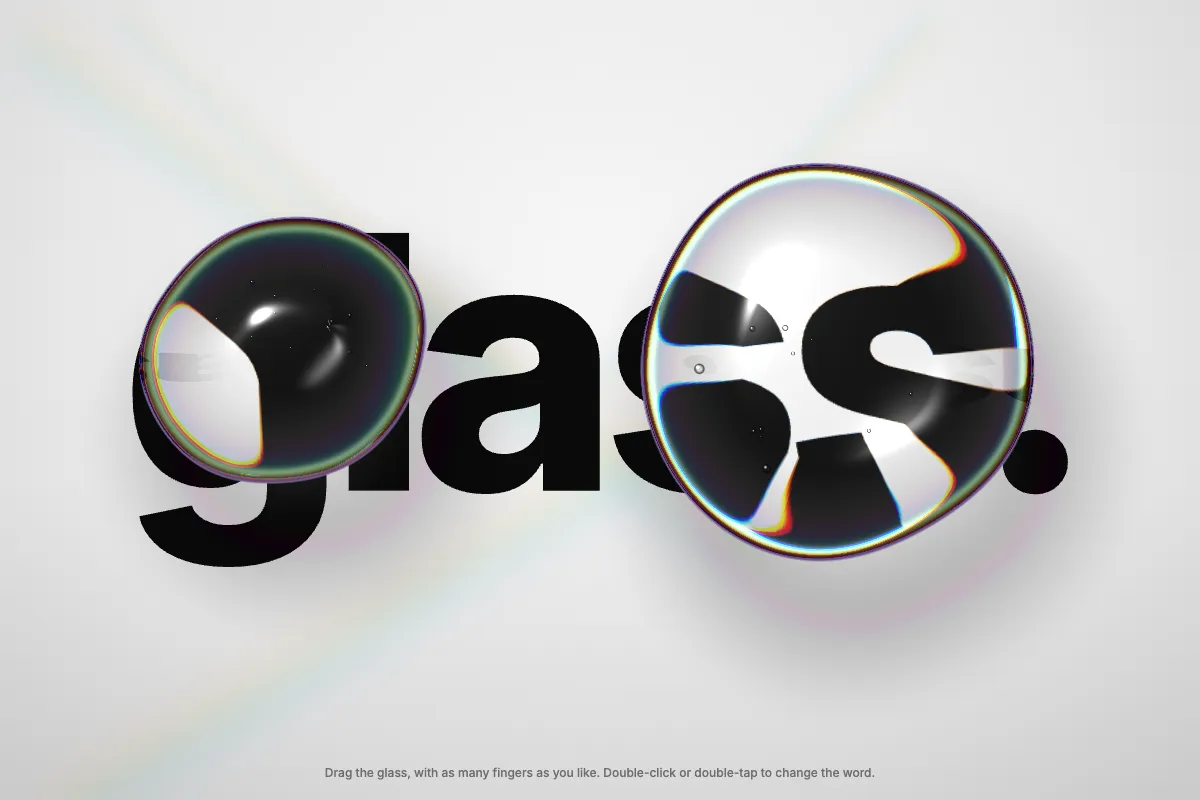
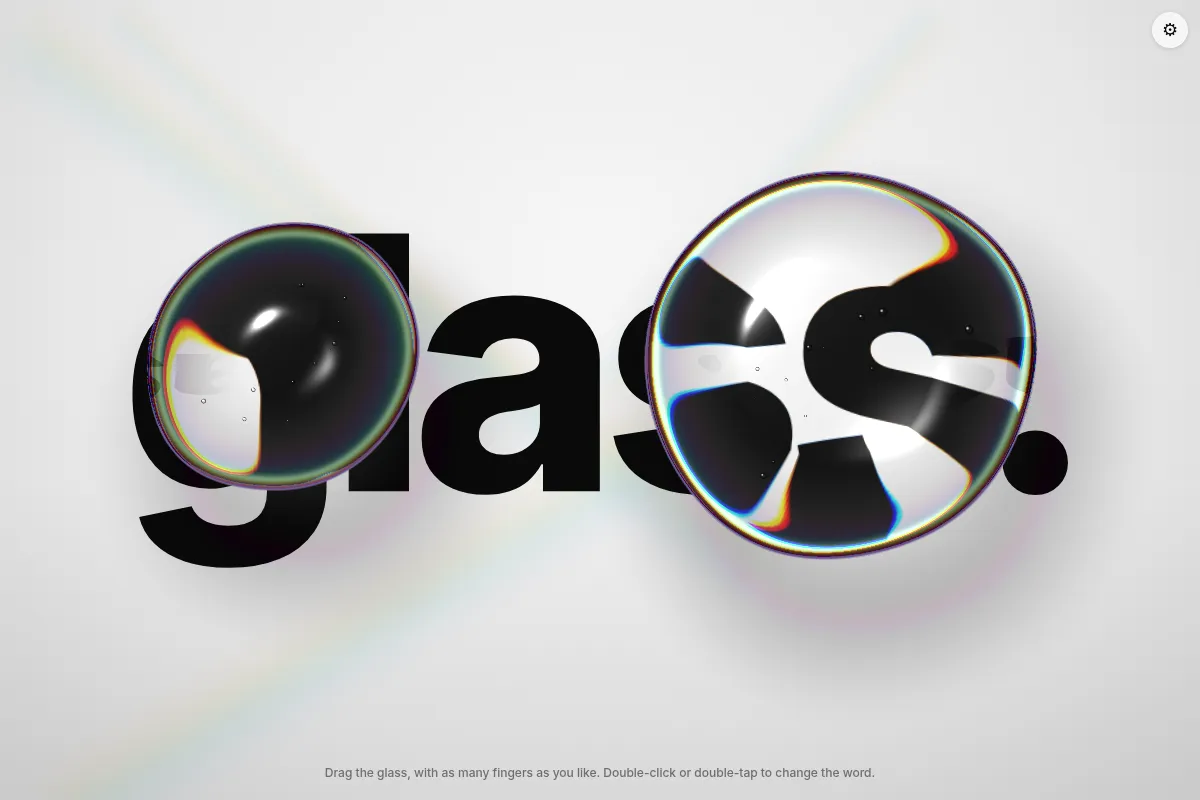
deploy: Jermolene-blog/blog@0623bb23b49f3dcc2e37793bc1b5b666c8a5a862

diff --git a/toys/blobbles/index.html b/toys/blobbles/index.html
@@ -25,6 +25,19 @@
     text-align:center; display:none;
   }
   #word::selection { background:rgba(0,120,255,0.18); color:transparent; }
+  #hud { position:fixed; top:calc(12px + env(safe-area-inset-top, 0px)); right:calc(12px + env(safe-area-inset-right, 0px));
+    font:500 12px/1.4 Inter, "Helvetica Neue", Arial, sans-serif; color:var(--ink); }
+  #hud-toggle { display:block; margin-left:auto; width:36px; height:36px; padding:0; border:0; border-radius:50%;
+    background:rgba(255,255,255,0.7); color:var(--ink); font-size:18px; line-height:36px; cursor:pointer;
+    box-shadow:0 1px 4px rgba(0,0,0,0.15); -webkit-backdrop-filter:blur(8px); backdrop-filter:blur(8px); }
+  #hud-panel { display:none; margin-top:8px; padding:12px 14px; width:220px; border-radius:12px;
+    background:rgba(255,255,255,0.8); box-shadow:0 2px 12px rgba(0,0,0,0.15); -webkit-backdrop-filter:blur(8px); backdrop-filter:blur(8px); }
+  #hud.open #hud-panel { display:block; }
+  #hud label { display:block; margin-bottom:10px; }
+  #hud label span { display:flex; justify-content:space-between; }
+  #hud output { color:var(--hint); font-variant-numeric:tabular-nums; }
+  #hud input[type=range] { width:100%; margin:4px 0 0; accent-color:var(--ink); }
+  #hud-reset { font:inherit; padding:4px 10px; border:1px solid rgba(0,0,0,0.2); border-radius:6px; background:transparent; color:var(--ink); cursor:pointer; }
   #err { position:fixed; inset:0; display:none; place-items:center; font:500 15px Inter, Arial, sans-serif; color:var(--ink); padding:24px; text-align:center; }
 </style>
 </head>
@@ -32,6 +45,10 @@
 <canvas id="c"></canvas>
 <input id="word" type="text" maxlength="60" autocomplete="off" autocorrect="off" autocapitalize="off" spellcheck="false" enterkeyhint="done" aria-label="Word to set in the background">
 <div id="hint">Drag the glass, with as many fingers as you like. Double-click or double-tap to change the word.</div>
+<div id="hud">
+  <button id="hud-toggle" type="button" aria-expanded="false" aria-controls="hud-panel" title="Settings">⚙</button>
+  <div id="hud-panel"></div>
+</div>
 <div id="err">This effect needs WebGL, which isn't available in this browser.</div>
 <script>
 (() => {
@@ -114,20 +131,28 @@ uniform sampler2D uTex;
 uniform vec2 uRes;
 uniform float uS, uT;
 uniform vec4 uB[5];
+uniform float uSp;
+uniform vec2 uQ[5]; // how far each blob is pressed into a side (x) or top/bottom (y) edge
 
 float smin(float a, float b, float k){ float h = clamp(.5 + .5*(b-a)/k, 0., 1.); return mix(b, a, h) - k*h*(1.-h); }
+
+// a blob pressed against an edge spreads out along it
+vec2 spread(vec2 q){ return vec2(1. + uSp*q.y, 1. + uSp*q.x); }
 
 float sdf(vec2 p){
   float d = 1e5;
   for (int i = 0; i < 5; i++){
     vec4 b = uB[i];
     if (b.z <= 0.) continue;
-    vec2 q = p - b.xy;
+    vec2 st = spread(uQ[i]);
+    vec2 q = (p - b.xy)/st;
     float a = atan(q.y, q.x), fi = float(i);
     float w = b.z*(0.016*sin(a*3. + uT*1.6 + fi*2.1) + 0.010*sin(a*5. - uT*2.2 + fi*1.3));
-    d = smin(d, length(q) - b.z - w, uS*0.10);
+    d = smin(d, (length(q) - b.z - w)*min(st.x, st.y), uS*0.10);
   }
-  return d;
+  // and is flattened where it meets the edge
+  float edge = -min(min(p.x, uRes.x - p.x), min(p.y, uRes.y - p.y));
+  return -smin(-d, -edge, uS*0.02);
 }
 
 float dome(vec2 p){
@@ -135,7 +160,7 @@ float dome(vec2 p){
   for (int i = 0; i < 5; i++){
     vec4 b = uB[i];
     if (b.z <= 0.) continue;
-    vec2 q = p - b.xy;
+    vec2 q = (p - b.xy)/spread(uQ[i]);
     f += exp(-dot(q,q)/(b.z*b.z*0.7));
   }
   return 1. - exp(-1.6*f);
@@ -210,12 +235,21 @@ void main(){
     // trapped air bubbles
     for (int i = 0; i < 5; i++){
       vec4 b = uB[i];
-      if (b.z <= 0. || length(p - b.xy) > b.z) continue;
+      if (b.z <= 0. || length(p - b.xy) > b.z*1.6) continue;
       for (int j = 0; j < 6; j++){
         float s = float(i)*13. + float(j)*3.7 + b.w;
-        float a = hash(s)*6.2831 + uT*0.12*(hash(s+1.) - .5);
-        vec2 bp = b.xy + b.z*0.72*sqrt(hash(s+2.))*vec2(cos(a), sin(a));
+        // each bubble wanders on its own: a slow orbit plus a drift at its own pace
+        float a = hash(s)*6.2831 + uT*(0.08 + 0.18*hash(s+1.))*sign(hash(s+4.) - .5);
+        vec2 q = 0.5*sqrt(hash(s+2.))*vec2(cos(a), sin(a));
+        vec2 f = 0.25 + 0.35*vec2(hash(s+5.), hash(s+6.));
+        vec2 ph = 6.2831*vec2(hash(s+7.), hash(s+8.));
+        q += 0.22*vec2(sin(uT*f.x + ph.x), cos(uT*f.y + ph.y))
+           + 0.08*vec2(sin(uT*f.y*2.3 + ph.y), sin(uT*f.x*1.9 + ph.x));
+        float ql = length(q);
+        if (ql > 0.72) q *= 0.72/ql;
         float br = b.z*(0.010 + 0.022*hash(s+3.));
+        // bubbles spread with a squished blob, and are kept clear of the edge
+        vec2 bp = clamp(b.xy + b.z*q*spread(uQ[i]), vec2(br*3.), uRes - br*3.);
         float bd = length(p - bp);
         float ring = smoothstep(br, br*0.75, bd)*(1. - smoothstep(br*0.75, br*0.35, bd));
         gc = mix(gc, gc*0.35, ring*0.85);
@@ -242,7 +276,7 @@ gl.bufferData(gl.ARRAY_BUFFER, new Float32Array([-1,-1, 3,-1, -1,3]), gl.STATIC_
 const aLoc = gl.getAttribLocation(prog, 'a');
 gl.enableVertexAttribArray(aLoc); gl.vertexAttribPointer(aLoc, 2, gl.FLOAT, false, 0, 0);
 const U = n => gl.getUniformLocation(prog, n);
-const uRes = U('uRes'), uS = U('uS'), uT = U('uT'), uB = U('uB[0]');
+const uRes = U('uRes'), uS = U('uS'), uT = U('uT'), uB = U('uB[0]'), uQ = U('uQ[0]'), uSp = U('uSp');
 
 const tex = gl.createTexture();
 gl.bindTexture(gl.TEXTURE_2D, tex);
@@ -256,6 +290,39 @@ function upload() {
   gl.bindTexture(gl.TEXTURE_2D, tex);
   gl.texImage2D(gl.TEXTURE_2D, 0, gl.RGB, gl.RGB, gl.UNSIGNED_BYTE, tex2d);
 }
+
+/* ---------------- settings ---------------- */
+const SETTINGS = [
+  { key: 'stiffness', label: 'Wall firmness', min: 40, max: 1500, step: 10, def: 250 },
+  { key: 'damping', label: 'Wall damping', min: 0, max: 40, step: 0.5, def: 6 },
+  { key: 'press', label: 'Deepest squish', min: 0, max: 0.9, step: 0.05, def: 0.55, fmt: v => `${Math.round(v * 100)}%` },
+  { key: 'spread', label: 'Spread when squished', min: 0, max: 2, step: 0.05, def: 0.6 },
+];
+const STORE = 'blobbles-settings';
+const cfg = Object.fromEntries(SETTINGS.map(s => [s.key, s.def]));
+try { Object.assign(cfg, JSON.parse(localStorage.getItem(STORE)) || {}); } catch (_) {}
+const saveCfg = () => { try { localStorage.setItem(STORE, JSON.stringify(cfg)); } catch (_) {} };
+
+const hud = document.getElementById('hud'), hudPanel = document.getElementById('hud-panel');
+const hudToggle = document.getElementById('hud-toggle');
+const inputs = SETTINGS.map(s => {
+  const label = document.createElement('label');
+  label.innerHTML = `<span>${s.label}<output></output></span><input type="range" min="${s.min}" max="${s.max}" step="${s.step}">`;
+  const input = label.querySelector('input'), out = label.querySelector('output');
+  const show = () => { input.value = cfg[s.key]; out.textContent = s.fmt ? s.fmt(cfg[s.key]) : cfg[s.key]; };
+  input.addEventListener('input', () => { cfg[s.key] = +input.value; show(); saveCfg(); });
+  show();
+  hudPanel.appendChild(label);
+  return show;
+});
+const reset = document.createElement('button');
+reset.id = 'hud-reset'; reset.type = 'button'; reset.textContent = 'Reset';
+reset.addEventListener('click', () => { SETTINGS.forEach(s => cfg[s.key] = s.def); inputs.forEach(f => f()); saveCfg(); });
+hudPanel.appendChild(reset);
+hudToggle.addEventListener('click', () => {
+  const open = hud.classList.toggle('open');
+  hudToggle.setAttribute('aria-expanded', open);
+});
 
 /* ---------------- liquid bodies ---------------- */
 // path(t) returns offsets in units of text half-width (x) and S (y)
@@ -301,7 +368,7 @@ canvas.addEventListener('pointerup', e => { endDrag(e); noteTapEnd(e); });
 canvas.addEventListener('pointercancel', endDrag);
 canvas.addEventListener('lostpointercapture', endDrag);
 // stop iOS/Android from treating multi-finger gestures as page zoom/scroll
-['gesturestart', 'gesturechange', 'touchmove'].forEach(t => document.addEventListener(t, e => e.preventDefault(), { passive: false }));
+['gesturestart', 'gesturechange', 'touchmove'].forEach(t => document.addEventListener(t, e => { if (!hud.contains(e.target)) e.preventDefault(); }, { passive: false }));
 
 /* ---------------- editing the word ---------------- */
 // Double-clicks and double-taps are detected from pointer events: the native
@@ -365,7 +432,22 @@ function resize() {
 addEventListener('resize', resize);
 
 let last = performance.now(), clock = 0;
-const data = new Float32Array(20);
+const data = new Float32Array(20), squash = new Float32Array(10);
+// how far a blob of radius r at position x is pressed into either edge of [0, size]
+const depth = (x, r, size) => Math.max(r - x, x - (size - r), 0);
+const press = (x, r, size) => Math.min(depth(x, r, size) / r, cfg.press);
+function wall(x, v, r, size) {
+  if (x < r) return (r - x) * cfg.stiffness - v * cfg.damping;
+  if (x > size - r) return (size - r - x) * cfg.stiffness - v * cfg.damping;
+  return 0;
+}
+// never let a blob press in further than cfg.press of its radius
+function limit(x, v, r, size) {
+  const lo = r * (1 - cfg.press), hi = size - lo;
+  if (x < lo) return [lo, Math.max(v, 0)];
+  if (x > hi) return [hi, Math.min(v, 0)];
+  return [x, v];
+}
 function frame(now) {
   const dt = Math.min(0.05, (now - last) / 1000); last = now;
   clock += dt * (reduceMotion ? 0.25 : 1);
@@ -375,16 +457,25 @@ function frame(now) {
     let k = 5, c = 3.2;
     for (const d of drags.values()) if (d.b === b) { tx = d.x + d.dx; ty = d.y + d.dy; k = 60; c = 11; }
     if (!b.init) { b.x = tx; b.y = ty; b.init = true; }
-    b.vx += ((tx - b.x) * k - b.vx * c) * dt;
-    b.vy += ((ty - b.y) * k - b.vy * c) * dt;
-    b.x += b.vx * dt; b.y += b.vy * dt;
     const breathe = 1 + 0.04 * Math.sin(t * 0.9 + b.seed * 3);
+    const r = b.r * S * breathe * 1.03;
+    // the edges of the window are soft springs: a blob presses into them and squishes
+    // (the shader flattens it against the edge), then springs back out
+    const [wx, wy] = [wall(b.x, b.vx, r, W), wall(b.y, b.vy, r, H)];
+    b.vx += ((tx - b.x) * k - b.vx * c + wx) * dt;
+    b.vy += ((ty - b.y) * k - b.vy * c + wy) * dt;
+    b.x += b.vx * dt; b.y += b.vy * dt;
+    [b.x, b.vx] = limit(b.x, b.vx, r, W);
+    [b.y, b.vy] = limit(b.y, b.vy, r, H);
     data.set([b.x, b.y, b.r * S * breathe, b.seed], i * 4);
+    squash.set([press(b.x, r, W), press(b.y, r, H)], i * 2);
   });
   gl.uniform2f(uRes, W, H);
   gl.uniform1f(uS, S);
   gl.uniform1f(uT, clock);
   gl.uniform4fv(uB, data);
+  gl.uniform2fv(uQ, squash);
+  gl.uniform1f(uSp, cfg.spread);
   gl.drawArrays(gl.TRIANGLES, 0, 3);
   requestAnimationFrame(frame);
 }
